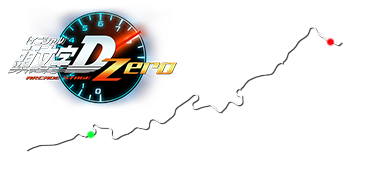
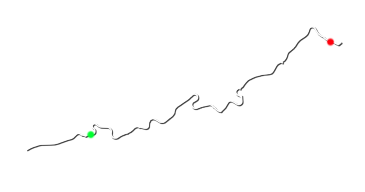
Hakone Turnpike Downhill is Level 7 in Hard; Tsubaki and Irohazaka move to Extreme as 8-9
Hakone's outlines come from the _real layouts: the _idas ones carry an Initial D Zero logo.

Changed region(s): [[0.0301, 0.0312, 0.4822, 0.5625]]

diff --git a/index.html b/index.html
@@ -169,6 +169,48 @@
                 <a class="level-card">
                   <div class="level-card__rank">07</div>
                   <div class="level-card__preview">
+                    <img src="assets/images/tracks/hakone-turnpike-downhill.png" alt="Hakone Turnpike Downhill preview" />
+                    <img class="level-card__map" src="assets/images/tracks/hakone-turnpike-downhill-outline.png" alt="" aria-hidden="true" />
+                  </div>
+                  <div class="level-card__body">
+                    <h3>Hakone Turnpike Downhill</h3>
+                    <p>Eleven kilometres and 900 metres down, flat out through the sweepers.</p>
+                  </div>
+                  <span class="status status--checking">Checking</span>
+                </a>
+              </div>
+
+              <div class="level-slot" role="listitem">
+                <div class="level-soon">
+                  <div class="level-soon__preview" aria-hidden="true">?</div>
+                  <div class="level-soon__body">
+                    <p class="level-soon__title">Coming soon</p>
+                    <p>A new hard course is on its way.</p>
+                  </div>
+                </div>
+              </div>
+              <div class="level-slot" role="listitem">
+                <div class="level-soon">
+                  <div class="level-soon__preview" aria-hidden="true">?</div>
+                  <div class="level-soon__body">
+                    <p class="level-soon__title">Coming soon</p>
+                    <p>A new hard course is on its way.</p>
+                  </div>
+                </div>
+              </div>
+            </div>
+          </section>
+
+          <section class="level-tier level-tier--extreme" aria-label="Extreme levels">
+            <div class="level-tier__header">
+              <span class="level-tier__name">Extreme</span>
+              <span class="level-tier__meter" aria-hidden="true"><i></i><i></i><i></i><i></i></span>
+            </div>
+            <div class="level-tier__levels" role="list">
+              <div class="level-slot" role="listitem">
+                <a class="level-card">
+                  <div class="level-card__rank">08</div>
+                  <div class="level-card__preview">
                     <img src="assets/images/tracks/tsubaki-downhill.png" alt="Tsubaki Line Downhill preview" />
                     <img class="level-card__map" src="assets/images/tracks/tsubaki-downhill-outline.png" alt="" aria-hidden="true" />
                   </div>
@@ -182,7 +224,7 @@
 
               <div class="level-slot" role="listitem">
                 <a class="level-card">
-                  <div class="level-card__rank">08</div>
+                  <div class="level-card__rank">09</div>
                   <div class="level-card__preview">
                     <img src="assets/images/tracks/irohazaka-downhill.png" alt="Irohazaka Downhill preview" />
                     <img class="level-card__map" src="assets/images/tracks/irohazaka-downhill-outline.png" alt="" aria-hidden="true" />
@@ -194,33 +236,7 @@
                   <span class="status status--checking">Checking</span>
                 </a>
               </div>
-            </div>
-          </section>
 
-          <section class="level-tier level-tier--extreme" aria-label="Extreme levels, coming soon">
-            <div class="level-tier__header">
-              <span class="level-tier__name">Extreme</span>
-              <span class="level-tier__meter" aria-hidden="true"><i></i><i></i><i></i><i></i></span>
-            </div>
-            <div class="level-tier__levels" role="list">
-              <div class="level-slot" role="listitem">
-                <div class="level-soon">
-                  <div class="level-soon__preview" aria-hidden="true">?</div>
-                  <div class="level-soon__body">
-                    <p class="level-soon__title">Coming soon</p>
-                    <p>A new extreme course is on its way.</p>
-                  </div>
-                </div>
-              </div>
-              <div class="level-slot" role="listitem">
-                <div class="level-soon">
-                  <div class="level-soon__preview" aria-hidden="true">?</div>
-                  <div class="level-soon__body">
-                    <p class="level-soon__title">Coming soon</p>
-                    <p>A new extreme course is on its way.</p>
-                  </div>
-                </div>
-              </div>
               <div class="level-slot" role="listitem">
                 <div class="level-soon">
                   <div class="level-soon__preview" aria-hidden="true">?</div>

diff --git a/script.js b/script.js
@@ -107,11 +107,12 @@ const LEVELS = [
   { number: 4, name: 'Tsukuba Fruits Line Outbound', short: 'Tsukuba', track: 'ek_tsukuba_fruits_line-outbound_idas' },
   { number: 5, name: 'Sadamine Downhill', short: 'Sadamine', track: 'ek_sadamine-downhill_idas' },
   { number: 6, name: 'Mt Akina Downhill', short: 'Akina', track: 'ek_akina-downhill_idas' },
-  { number: 7, name: 'Tsubaki Line Downhill', short: 'Tsubaki', track: 'ek_tsubaki_line-downhill_idas' },
-  { number: 8, name: 'Irohazaka Downhill', short: 'Irohazaka', track: 'ek_irohazaka-downhill_idas' },
+  { number: 7, name: 'Hakone Turnpike Downhill', short: 'Hakone', track: 'ek_hakone_turnpike-downhill_idas' },
+  { number: 8, name: 'Tsubaki Line Downhill', short: 'Tsubaki', track: 'ek_tsubaki_line-downhill_idas' },
+  { number: 9, name: 'Irohazaka Downhill', short: 'Irohazaka', track: 'ek_irohazaka-downhill_idas' },
 ];
 // Level shown when the leaderboard opens (Irohazaka, the first level to run the plugin).
-const DEFAULT_LEADERBOARD_LEVEL = 8;
+const DEFAULT_LEADERBOARD_LEVEL = 9;
 
 // The two boards the API offers (`sort=`): score (highest first, a tie goes to the faster
 // time) and time (fastest first, a tie goes to whoever set it first).

diff --git a/CLAUDE.md b/CLAUDE.md
@@ -294,15 +294,17 @@ with a heading (`.level-tier__name`, the tier's colour, and `.level-tier__meter`
 bars, 1 lit for Easy, 2 Medium, 3 Hard, 4 Extreme) over `.level-tier__levels`, an `auto-fill`
 grid of its tiles (up to three across on a desktop, one on a phone). Each tile gets a 3px top
 stripe in its tier's colour. Colours: Easy green `#4fe08a`, Medium `--sunset`, Hard `--hot`,
-**Extreme purple `#c46bff`** (the user wants the tier after Hard purple). The Extreme band is shown
-with three "Coming soon" tiles (`.level-soon`: the size of a level tile, striped purple picture area
+**Extreme purple `#c46bff`** (the user wants the tier after Hard purple). A band's free places are
+"Coming soon" tiles (`.level-soon`: the size of a level tile, striped picture area in the tier's colour
 with a "?", dashed border). They are not `.level-card`s, so they get no status, no join link and no
 cursor, and Up / Down skip a band without level cards. Replace a tile with a real `.level-slot` when
-an Extreme level arrives; remove the tiles once the band is full.
+a level for that tier arrives; remove the tiles once the band is full.
 
-Tiers as of 2026-11-08: **Easy** Myogi, Momiji, Akagi; **Medium** Tsukuba Fruits Line, Sadamine, Akina; **Hard** Tsubaki Line, Irohazaka. Planned: Tsubaki and Irohazaka
-move to Extreme with Happogahara, and Hakone Turnpike, Nagao and Nanamagari join Hard.
-The bands follow the level order (the level numbers run 01-08 across them), so the tier a level is
+Tiers as of 2026-11-08 (Hakone go-live): **Easy** Myogi, Momiji, Akagi; **Medium** Tsukuba Fruits Line,
+Sadamine, Akina; **Hard** Hakone Turnpike and two "Coming soon" tiles (`.level-soon` takes its tier's
+colour); **Extreme** Tsubaki Line, Irohazaka and one "Coming soon". Planned: Nagao and Nanamagari join
+Hard, Happogahara Extreme.
+The bands follow the level order (the level numbers run 01-09 across them), so the tier a level is
 in is where its `.level-slot` sits in `index.html`. Keys (`moveGridCursor`, the user's choice):
 Right / Left go through all levels in order, across bands; Down / Up jump to the band below /
 above, to its card nearest the current one horizontally (the first on a tie, so on a phone the
@@ -314,10 +316,10 @@ band's first card). Both wrap.
   after it, and add it to `LEVELS` in `script.js`. Pictures are the game's own
   `content/tracks/<track>/ui/<layout>/preview.png` and `outline.png`, named after the track
   without a level number (`assets/images/tracks/akagi-downhill.png`, `...-outline.png`), so
-  reordering levels needs no renames. Exception (the user's choice): Sadamine's and Hakone Turnpike's previews
-  come from their `_real` layouts, their outlines from the `_idas` ones. `hakone-turnpike-downhill*.png` (for
-  its Level 7 card at go-live) and `hakone-turnpike-uphill*.png` (`uphill_real` / `uphill_idas`, for an uphill
-  card if one comes) were added 2026-11-08 ahead of the card. The level order itself lives in the API's
+  reordering levels needs no renames. Exceptions (the user's choice): Sadamine's and Hakone Turnpike's previews
+  come from their `_real` layouts. Sadamine's outline is from `downhill_idas`; Hakone's from `_real` too,
+  because its `_idas` outlines carry an "Initial D Zero" logo. `hakone-turnpike-uphill*.png` (`uphill_real`)
+  is in the folder unused, for an uphill card if one comes. The level order itself lives in the API's
   `game_servers.json`; the badges and `LEVELS` here must match it (deploy them together).
 - **`.level-slot`** wraps each card because the password tray must stay the card's next sibling
   (`passwordRow`). It spans two rows of its tier's grid through `subgrid`, so tiles in a row line
@@ -334,7 +336,9 @@ band's first card). Both wrap.
   average grade, 413 m drop, 16 hairpins), Tsubaki "Bend after tight bend, barely a straight to
   breathe." (34 bends under 40 m radius, longest straight 105 m), Irohazaka "Nineteen stacked
   hairpins. The final test." (19 hairpins in 4.9 km), Sadamine (2026-11-08) "A narrow ribbon of road through twenty-nine tight
-  bends." (6.6 km, 29 bends under 40 m radius, a 3 m road by its `ui_track.json`). Drafts for the user to check.
+  bends." (6.6 km, 29 bends under 40 m radius, a 3 m road by its `ui_track.json`), Hakone Turnpike (2026-11-08)
+  "Eleven kilometres and 900 metres down, flat out through the sweepers." (10.8 km run, 912 m drop, no bend
+  under 25 m radius, racing line median 173 km/h). Drafts for the user to check.
 
 ## Server Status (Level Select)
 Level cards are not hard-coded Online/Offline. While Level Select is open, `script.js` polls
